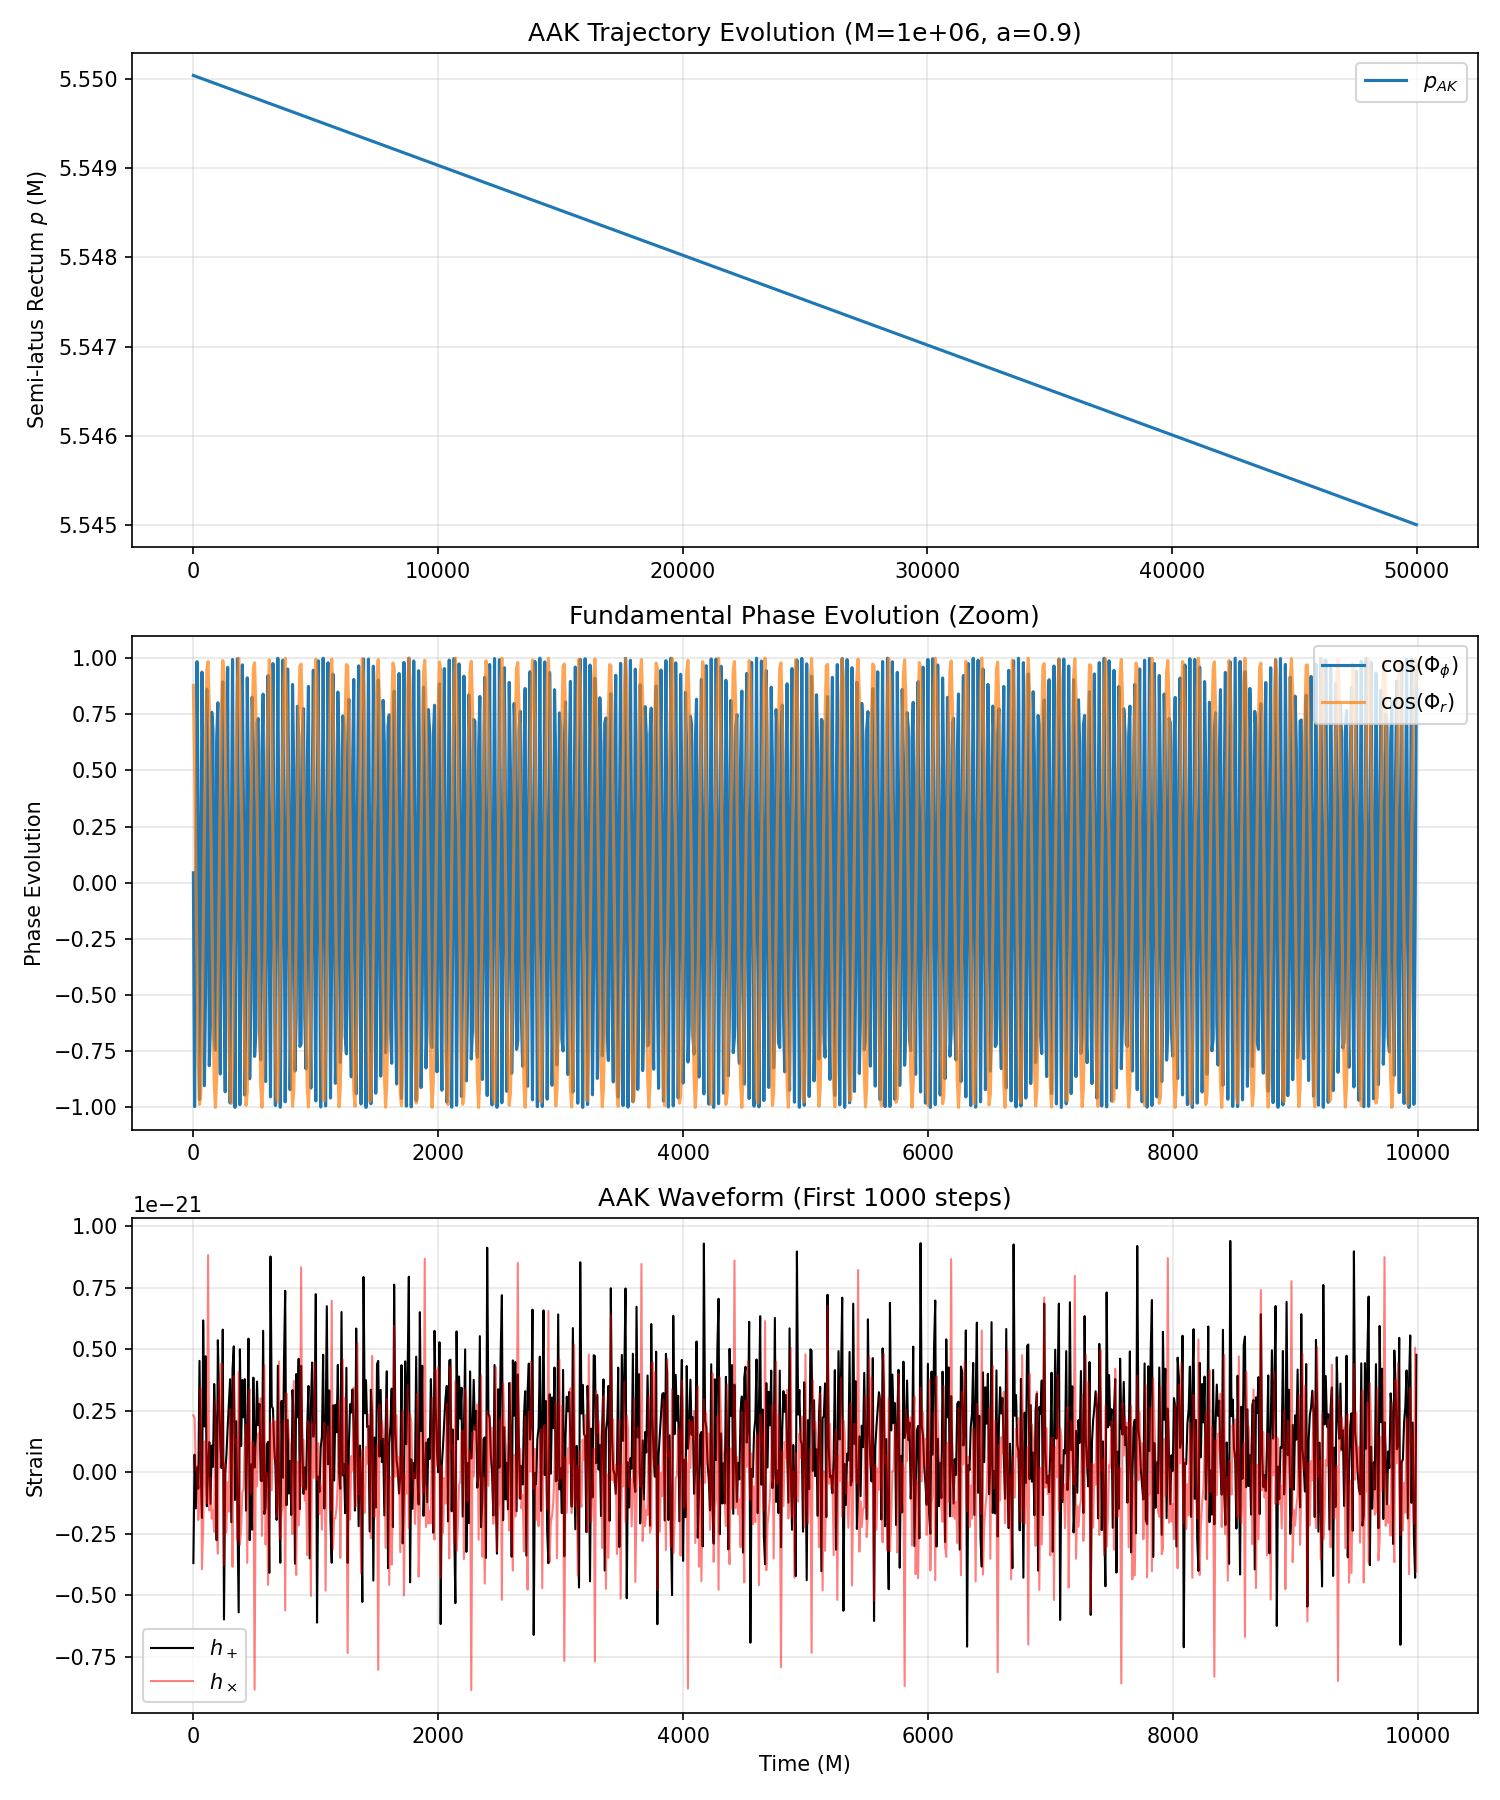
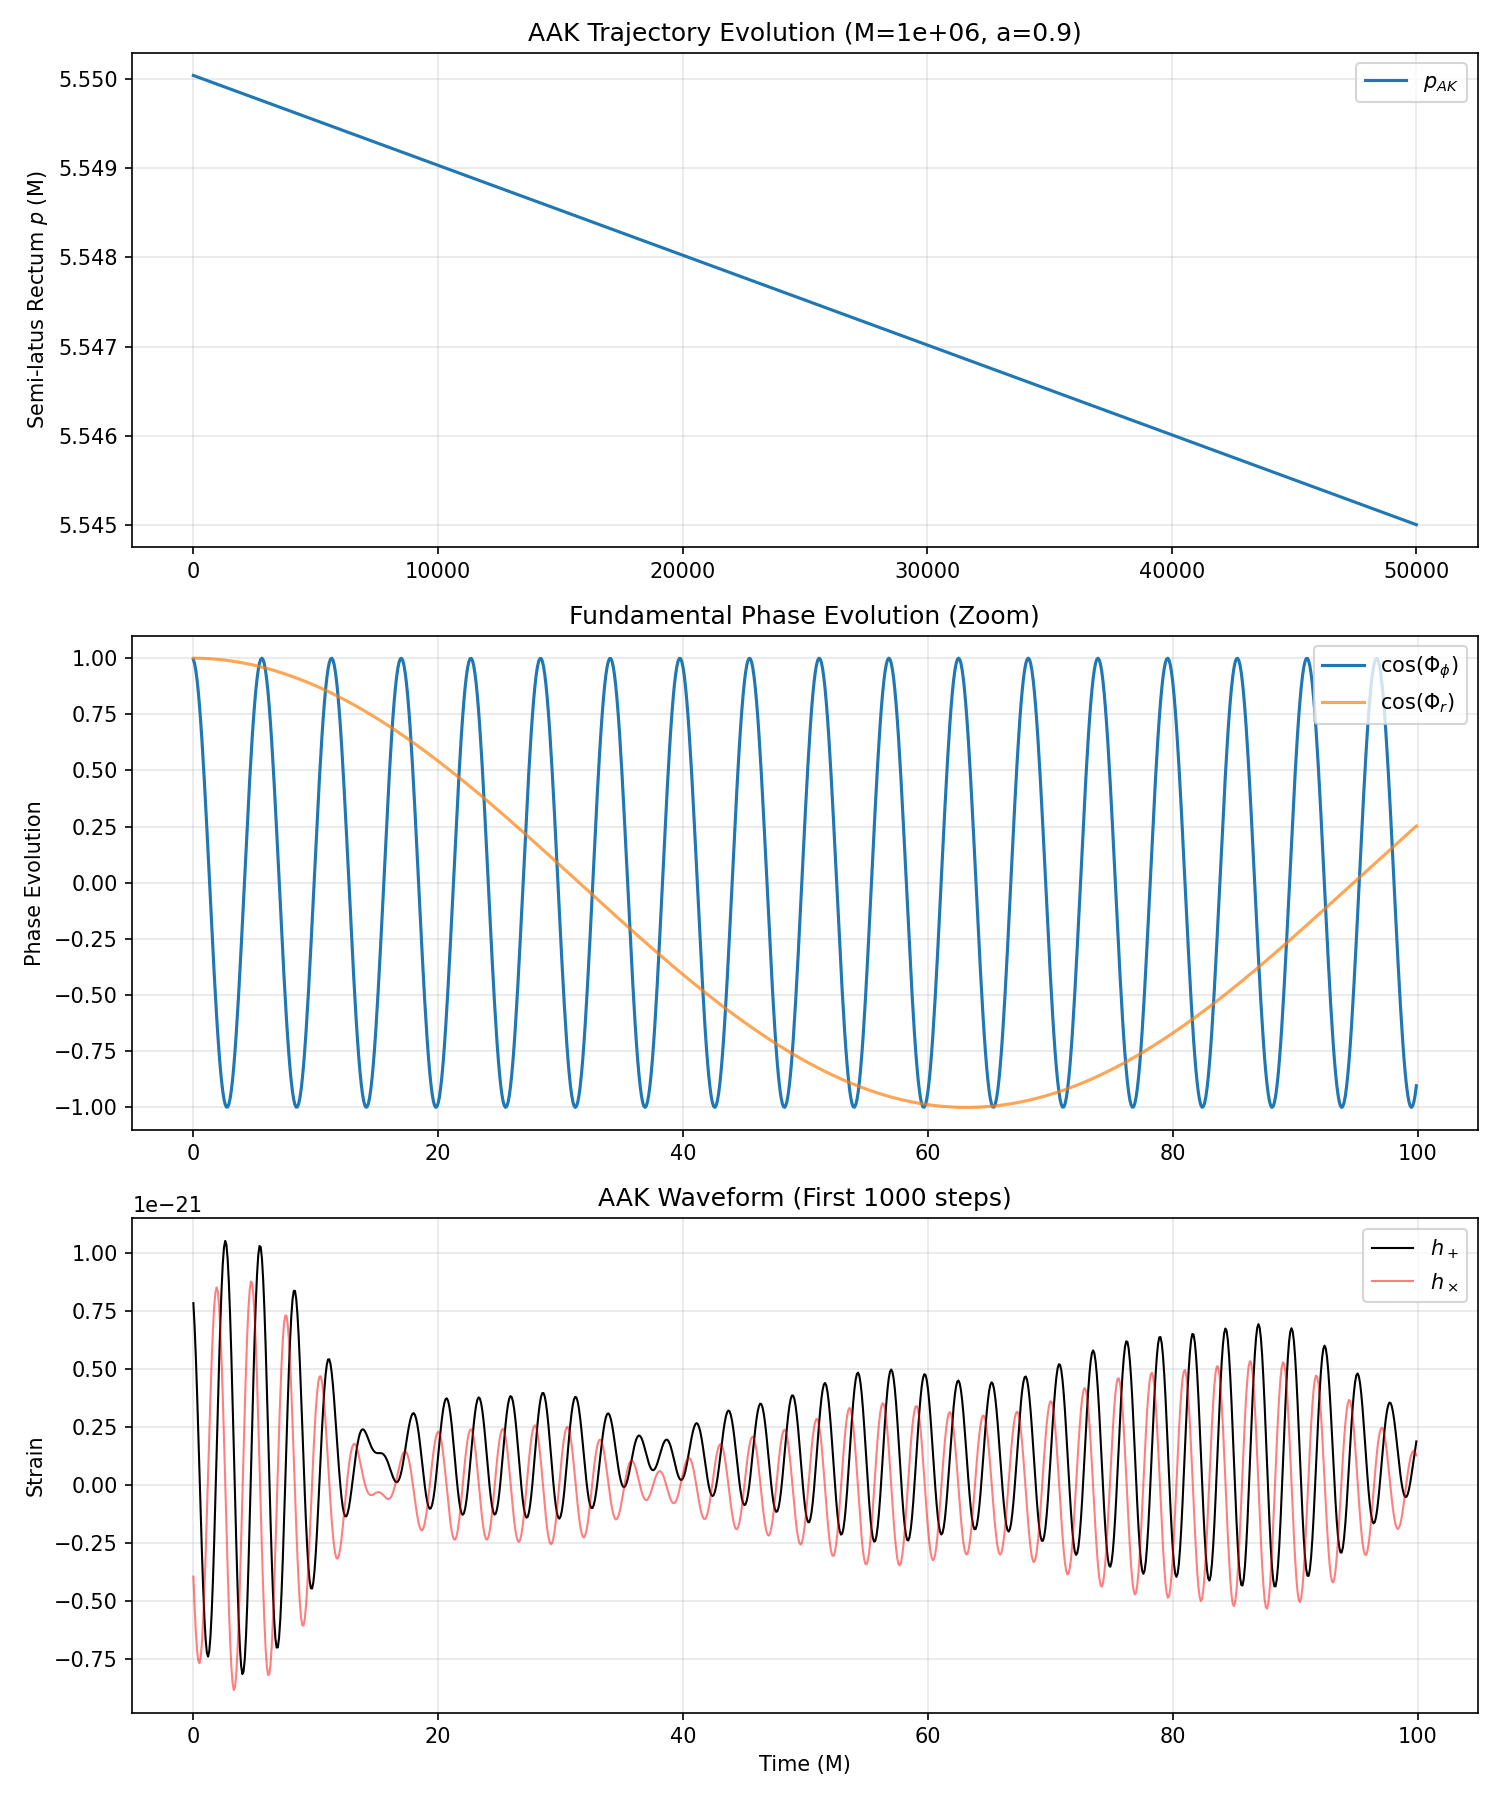
AAK update 7

diff --git a/test_aak.py b/test_aak.py
@@ -66,7 +66,7 @@ def test_true_aak():
     # 3. 关键检查 II: AAK 轨道演化 (Flux + Map + Phase)
     # ------------------------------------------
     duration = 50000.0 # M (几何单位时长，约 5000 秒 / 1.4 小时)
-    dt = 10.0 # M (步长可以比 NK 大，因为 AAK 是解析的，只要能捕捉参数变化即可)
+    dt = 0.1 # M (步长可以比 NK 大，因为 AAK 是解析的，只要能捕捉参数变化即可)
     
     print(f"\n[Step 2] Evolving AAK Orbit (Duration={duration} M)...")
     t0 = time.time()
@@ -158,7 +158,7 @@ def test_true_aak():
     
     # 频率/相位检查 (画一下 cos(phase) 看是否平滑)
     # Zoom in to first few cycles
-    zoom_idx = 1000 # 前 1000 个点
+    zoom_idx = 1000
     if len(t_vec) < zoom_idx: zoom_idx = len(t_vec)
     
     axes[1].plot(t_vec[:zoom_idx], np.cos(phiphi_vec[:zoom_idx]), label=r'$\cos(\Phi_\phi)$')
